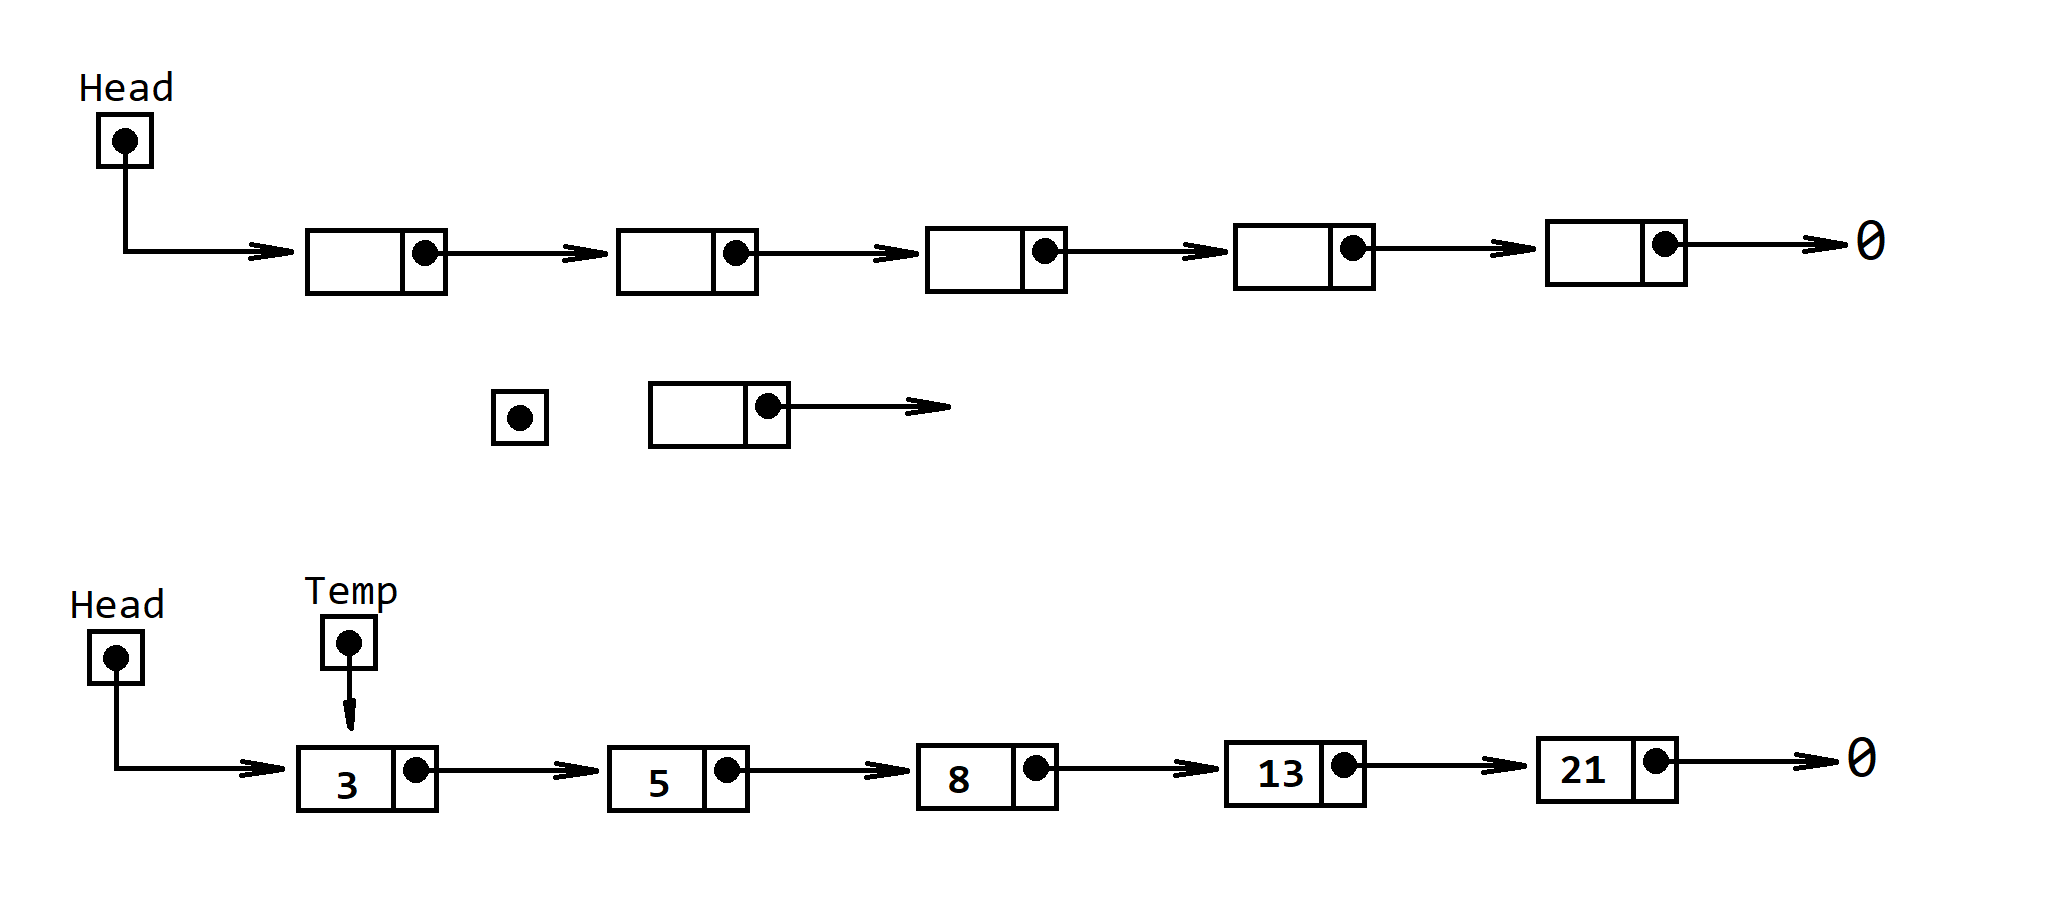
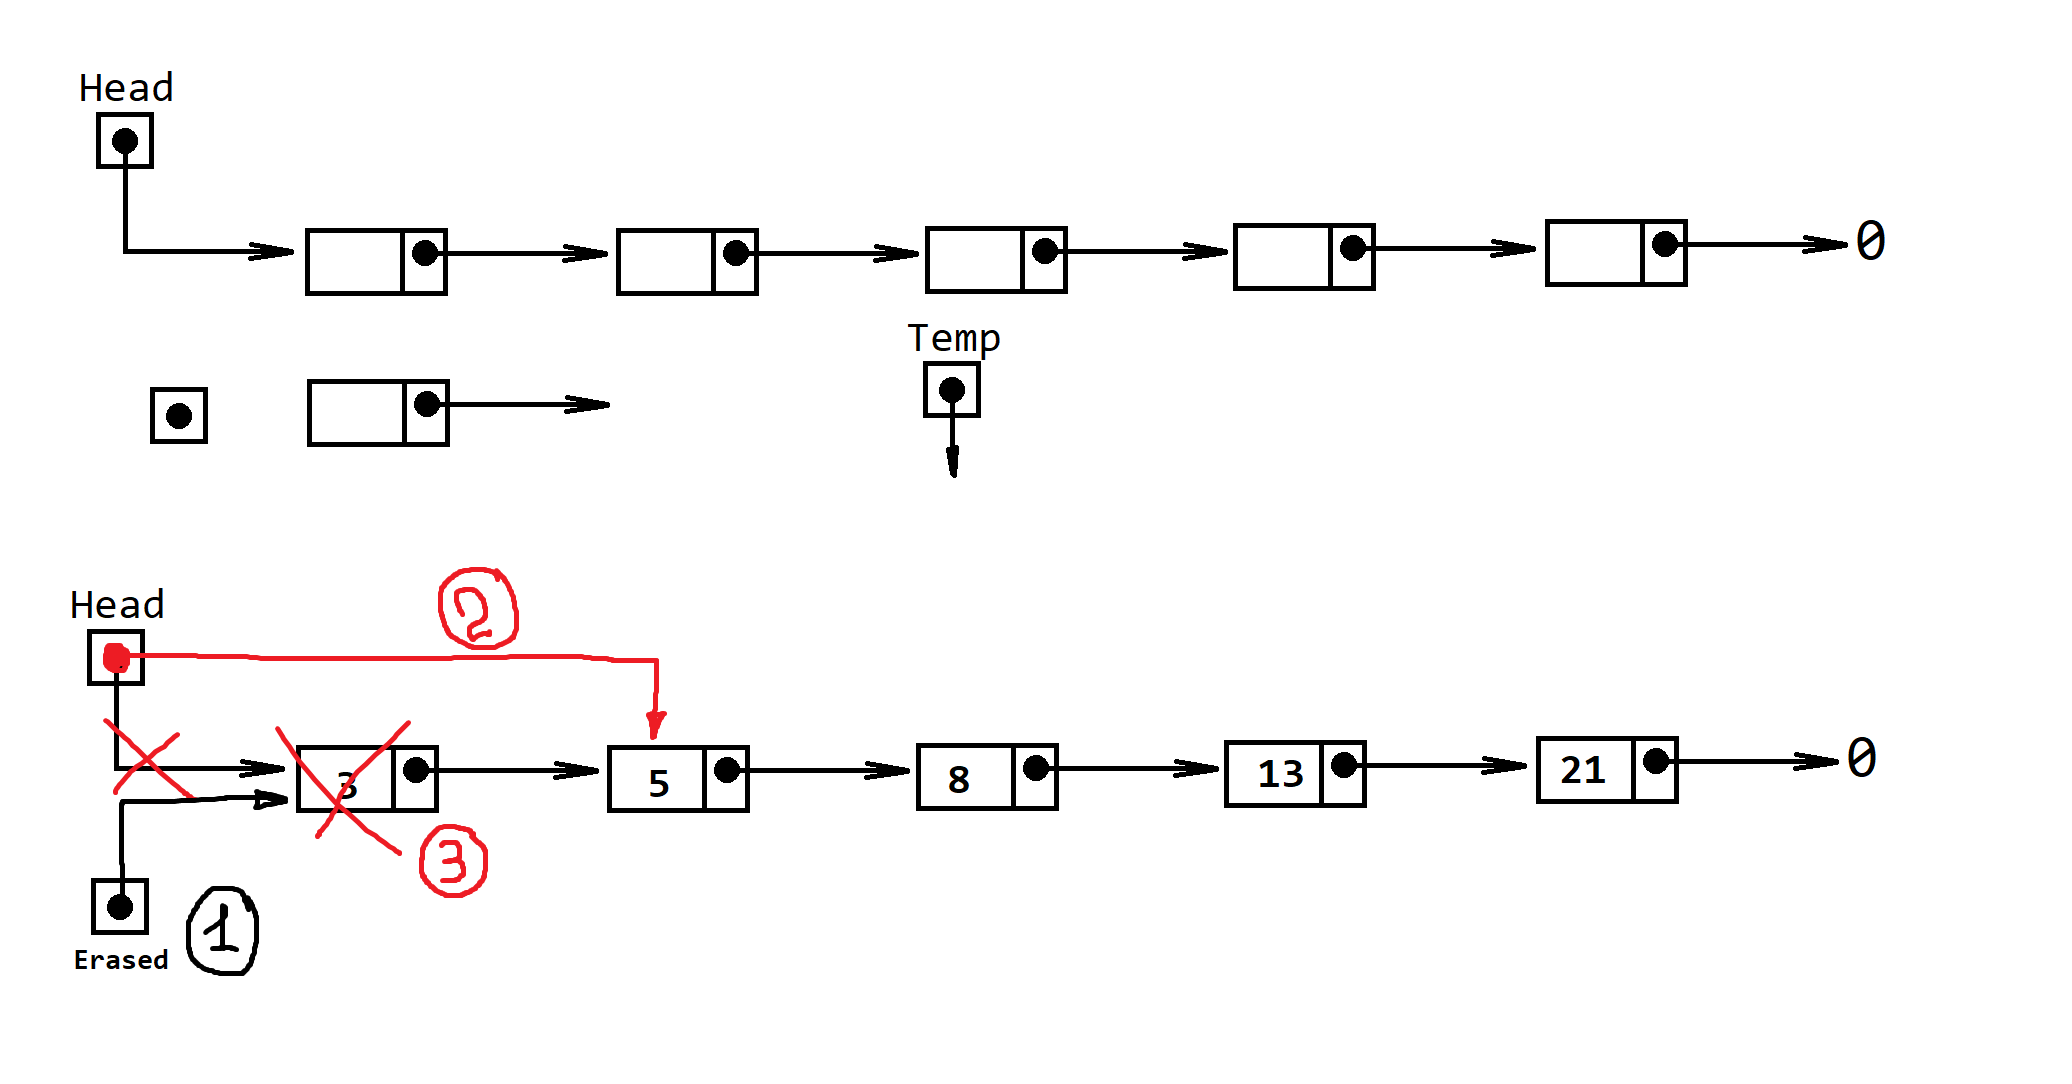
Insert DONE

diff --git a/DataContainers/ForwardList/main.cpp b/DataContainers/ForwardList/main.cpp
@@ -1,35 +1,44 @@
 #include<iostream>
 using namespace std;
+using std::cin;
+using std::cout;
+using std::endl;
 
 #define tab "\t"
 
-class Element 
+class Element
 {
 	int Data;		//Значение элемента
 	Element* pNext;	//Адрес следующего элемента
+	static int count;//Объявление статической переменной
 public:
 	Element(int Data, Element* pNext = nullptr)
 	{
 		this->Data = Data;
 		this->pNext = pNext;
+		count++;
 		cout << "EConstructor:\t" << this << endl;
 	}
 	~Element()
 	{
+		count--;
 		cout << "EDestructor:\t" << this << endl;
 	}
 	friend class ForwardList;	//Приватные поля будут открытыми для класса 'ForwardList'
 };
+int Element::count = 0;//Инициализация статической переменной
 
 class ForwardList
 {
 	//Односвязный (однонаправленный список)
 	Element* Head;	//Указатель на начальный элемент списка
+	int size;
 public:
 	ForwardList()
 	{
 		//Конструктор по умолчанию, который создает пустой список.
 		Head = nullptr;	//Если Голова указывает на 0, то список пуст.
+		size = 0;
 		cout << "LConstructor:\t" << this << endl;
 	}
 	~ForwardList()
@@ -51,6 +60,69 @@ public:
 
 		//3) Смещаем Голову на Новый элемент:
 		Head = New;
+
+		size++;
+	}
+	void push_back(int Data)
+	{
+		if (Head == nullptr)return push_front(Data);
+
+		//1) Создаем новый элемент:
+		Element* New = new Element(Data);
+
+		//2) Доходим до конца списка:
+		Element* Temp = Head;
+		while (Temp->pNext)
+			Temp = Temp->pNext;
+
+		//3) Присоединяем новый элемент к концу списка:
+		Temp->pNext = New;
+
+		size++;
+	}
+	void insert(int Data, int Index)//Вставляет элемент в список по заданному индексу
+	{
+		if (Index > size)return;
+		//1) Создаем добавляемый элемент:
+		Element* New = new Element(Data);
+
+		//2) Доходим до нужного элемента списка:
+		Element* Temp = Head;
+		for (int i = 0; i < Index - 1; i++)Temp = Temp->pNext;
+
+		//3) Выполняем вставку элемента в список:
+		New->pNext = Temp->pNext;
+		Temp->pNext = New;
+		size++;
+	}
+
+	//				Removing elements:
+	void pop_front()
+	{
+		//1) Запоминаем адрес удаляемого элемента:
+		Element* Erased = Head;
+
+		//2) Смещаем Голову на следующий элемент:
+		Head = Head->pNext;
+
+		//3) Удалям элемент из памяти:
+		delete Erased;
+
+		size--;
+	}
+	void pop_back()
+	{
+		//1) Доходим до конца списка:
+		Element* Temp = Head;
+		while (Temp->pNext->pNext)Temp = Temp->pNext;
+
+		//2) Удаляем элемент из памяти:
+		delete Temp->pNext;
+
+		//3) Зануляем указатель на следующий элемент:
+		Temp->pNext = nullptr;
+
+		size--;
 	}
 
 	//					Methods:
@@ -64,18 +136,55 @@ public:
 			cout << Temp << tab << Temp->Data << tab << Temp->pNext << endl;
 			Temp = Temp->pNext;
 		}
+		cout << "Количество элементов списка: " << size << endl;
+		cout << "Общее количество элементов: " << Element::count << endl;
 	}
 };
+
+#define BASE_CHECK
+//#define MULTIPLE_LISTS
 
 void main()
 {
 	setlocale(LC_ALL, "");
+
+#ifdef BASE_CHECK
 	int n;
 	cout << "Введите размер списка: "; cin >> n;
 	ForwardList list;
 	for (int i = 0; i < n; i++)
 	{
-		list.push_front(rand() % 100);
+		list.push_back(rand() % 100);
+		//list.push_front(rand() % 100);
 	}
 	list.print();
+	//list.push_back(123);
+	//list.pop_front();
+	//list.pop_back();
+	//list.print();
+
+	int index;
+	int value;
+	cout << "Введите индекс добавляемого элемента: "; cin >> index;
+	cout << "Введите значение добавляемого элемента: "; cin >> value;
+	list.insert(value, index);
+	list.print();
+#endif // BASE_CHECK
+
+#ifdef MULTIPLE_LISTS
+	ForwardList list1;
+	list1.push_back(3);
+	list1.push_back(5);
+	list1.push_back(8);
+	list1.push_back(13);
+	list1.push_back(21);
+	list1.print();
+
+	ForwardList list2;
+	list2.push_back(34);
+	list2.push_back(55);
+	list2.push_back(89);
+	list2.print();
+#endif // MULTIPLE_LISTS
+
 }
